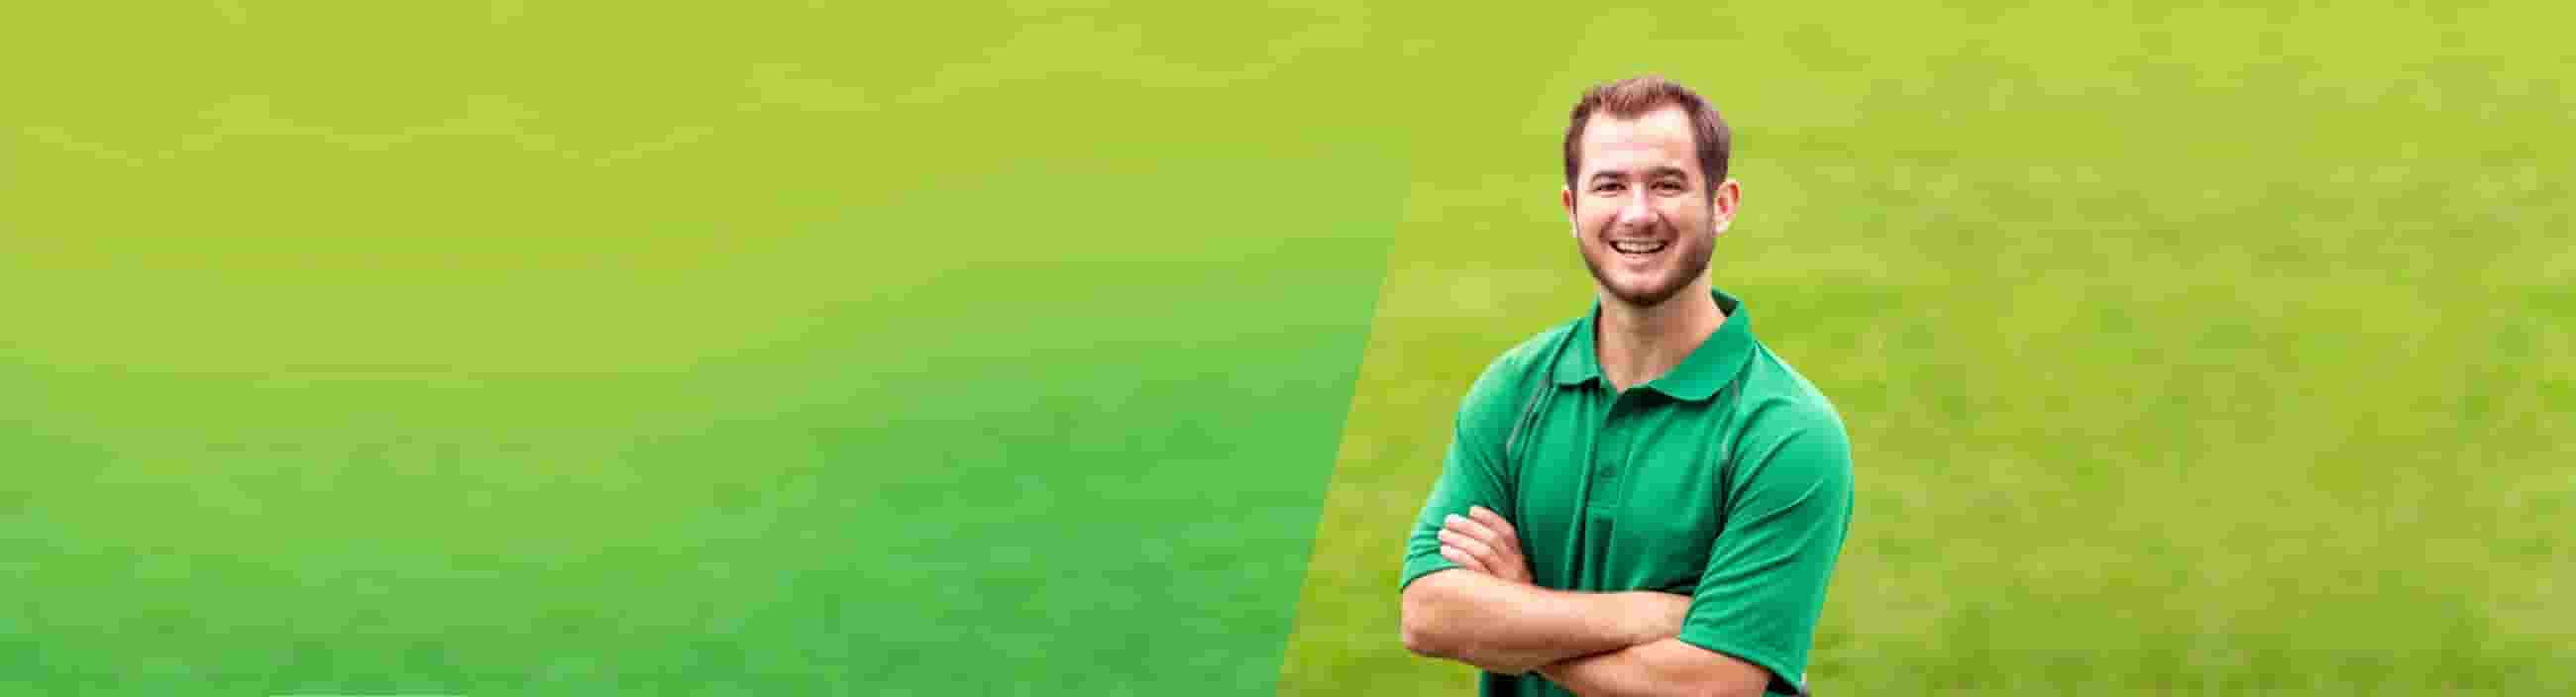
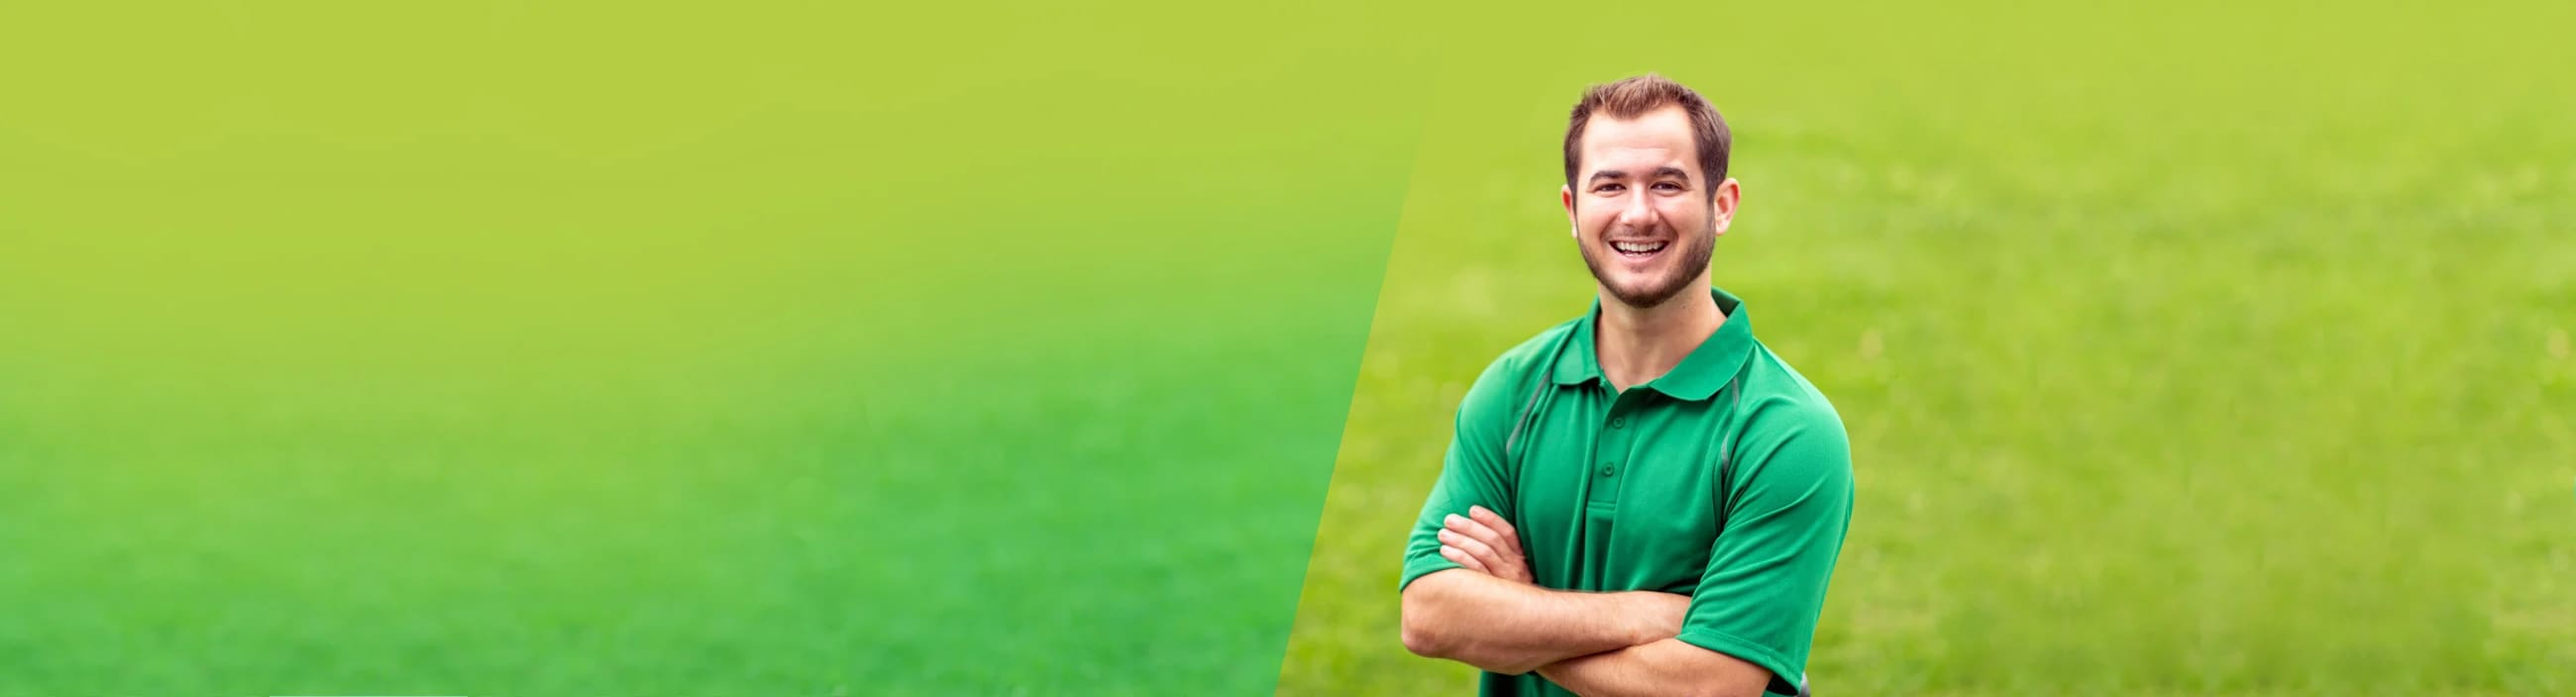
new layout change

diff --git a/assets/css/home.css b/assets/css/home.css
@@ -1,20 +1,82 @@
 .home-first-section {
-  background-image: url("../images/home-banner-bg.jpg");
-  height: 80vh;
+  background-image: url("../images/young-boy.jpg");
+  height: 90vh;
   width: 100%;
   position: relative;
+  background-repeat: no-repeat;
+  background-position: center;
+  background-size: cover;
+  margin-top: 8%;
 }
 
 .home-first-section-inside {
   position: absolute;
-  top: 20%;
+  top: 10%;
   left: 10%;
-  width: 40%;
+  width: 50%;
+}
+
+.home-first-section-inside > h2 {
+  font-size: 40px;
+  width: 80%;
+  line-height: 1.4;
+}
+
+.home-first-section-inside > p {
+  font-size: 20px;
+  width: 80%;
+  line-height: 1.4;
+  margin: 3% 0;
 }
 
 .five-stars-rating > i {
-  color: gold;
+  color: var(--primary-green);
+  font-size: 25px;
+}
+
+.home-first-section-input {
+  background-color: vaR(--primary-green);
+  padding: 5%;
+  border-radius: 5px;
+}
+
+.home-first-section-input-container {
+  grid-template-columns: 70% 1fr;
+}
+
+.home-first-section-input > label {
+  margin-bottom: 3%;
+  color: 16px;
+  font-weight: bold;
+  color: var(--white);
+}
+
+.home-first-section-input-container {
+  margin-top: 4%;
+}
+
+.home-first-section-input-container > input {
+  padding: 6px;
+  border-top-left-radius: 4px;
+  border-bottom-left-radius: 4px;
+  border: 0;
+  outline: 0;
   font-size: 18px;
+  color: black;
+  font-weight: bold;
+}
+
+.home-first-section-input-container > button {
+  height: 60px;
+  width: 100%;
+  background-color: #f0b429;
+  border-top-right-radius: 4px;
+  border-bottom-right-radius: 4px;
+  border: 0;
+  outline: 0;
+  font-size: 18px;
+  color: black;
+  font-weight: bold;
 }
 
 /* ----------------------------- */

diff --git a/assets/css/header.css b/assets/css/header.css
@@ -8,26 +8,36 @@ body {
 
 .header {
   height: 10vh;
-  position: relative;
+  position: fixed;
+  width: 100%;
   top: 0;
-  padding: 4% 5%;
+  padding: 4% 10%;
   left: 0;
   border-bottom: 0.4px solid var(--white);
   z-index: 1000;
   background-color: var(--white);
+  box-shadow: rgba(0, 0, 0, 0.35) 0px 5px 15px;
 }
 
 .header-logo > a > img {
-  height: 80px;
+  height: 40px;
   width: 100%;
+}
+
+.main-logo > a {
+  color: var(--primary-green);
+  font-size: 28px;
+  font-weight: 600;
 }
 
 .nav-list {
   gap: 20px;
 }
 .nav-links > a {
-  color: var(--secondary-color);
+  color: #0e5814;
   transition: all 0.3s;
+  font-size: 19px;
+  font-weight: 500;
 }
 
 .nav-links > a:hover,

diff --git a/assets/css/global.css b/assets/css/global.css
@@ -16,6 +16,7 @@
   --gray: #e0e0e0;
   --primary-blue: #205072;
   --primary-blue-lighter: #329d9c;
+  /* --primary-green: #0e5814; */
   --primary-green: #0e5814;
   --primary-green-lighter: #57ae5b;
   --primary-green-lightest: #cff4dc;

diff --git a/assets/css/utility.css b/assets/css/utility.css
@@ -100,7 +100,7 @@
   font-size: 20px;
   padding: 10px;
   border-radius: 4px;
-  background-color: #f0b429;
+  background-color: #ffcf01;
   color: #222;
   font-weight: 500;
 }

diff --git a/includes/view/header.php b/includes/view/header.php
@@ -1,18 +1,19 @@
 <header class="header flex-center-between">
     <div class="main-logo">
         <a href="#">
-            <img src="<?= get_img() ?>/light-logo.png" alt="Main Logo" />
+            <!-- <img src="<?= get_img() ?>/logo-2.png" alt="Main Logo" /> -->
+            City Landscape Services
         </a>
     </div>
     <nav class="nav">
         <ul class="nav-list flex-center-between">
-            <li class="nav-links"><a href="./index.html">Home</a></li>
-            <li class="nav-links"><a href="./about.html">About Us</a></li>
-            <li class="nav-links"><a href="./services.html">Services</a></li>
-            <li class="nav-links"><a href="./faq.html">FAQs</a></li>
-            <li class="nav-links"><a href="./careers.html">Careers</a></li>
-            <li class="nav-links"><a href="./contact.html">Contact Us</a></li>
-            <button><a href="tel:+91 1234567800">Contact Us</a></button>
+            <li class="nav-links"><a href="<?= home_path() ?>pages/about-us.php">About Us</a></li>
+            <li class="nav-links"><a href="<?= home_path() ?>pages/blog.php">Blog</a></li>
+            <li class="nav-links"><a href="<?= home_path() ?>pages/reviews.php">Reviews</a></li>
+            <li class="nav-links"><a href="<?= home_path() ?>pages/services/lawn-mowing.php">lawn mowing</a></li>
+            <li class="nav-links"><a href="<?= home_path() ?>pages/states/main_state.php">States</a></li>
+            <li class="nav-links"><a href="<?= home_path() ?>pages/uses/residential-lawn-care.php">Uses</a></li>
+            <li class="nav-links"><a href="tel:+91 1234567800">Contact Us</a></li>
         </ul>
     </nav>
 

diff --git a/pages/index.php b/pages/index.php
@@ -26,7 +26,7 @@
     <!-- ------------------------ -->
     <!-- First section starts here -->
     <!-- ------------------------ -->
-    <section class="home-first-section background-property">
+    <section class="home-first-section ">
         <div class="home-first-section-inside">
             <h2>
                 Hire a world-class lawn care
@@ -35,7 +35,13 @@
             <p>
                 Fully insured with a total satisfaction guarantee and amazing customer support.
             </p>
-            <button>Our Pricing</button>
+            <div class="home-first-section-input">
+                <label for="pricing ">Get a quick and easy price</label>
+                <div class="home-first-section-input-container grid">
+                    <input type="text " placeholder="Your Street Address">
+                    <button>SEE PRICING</button>
+                </div>
+            </div>
             <p>Rated 4.7/5 out of 100,000+ customer reviews</p>
             <div class="five-stars-rating">
                 <i class='bx bxs-star'></i>
